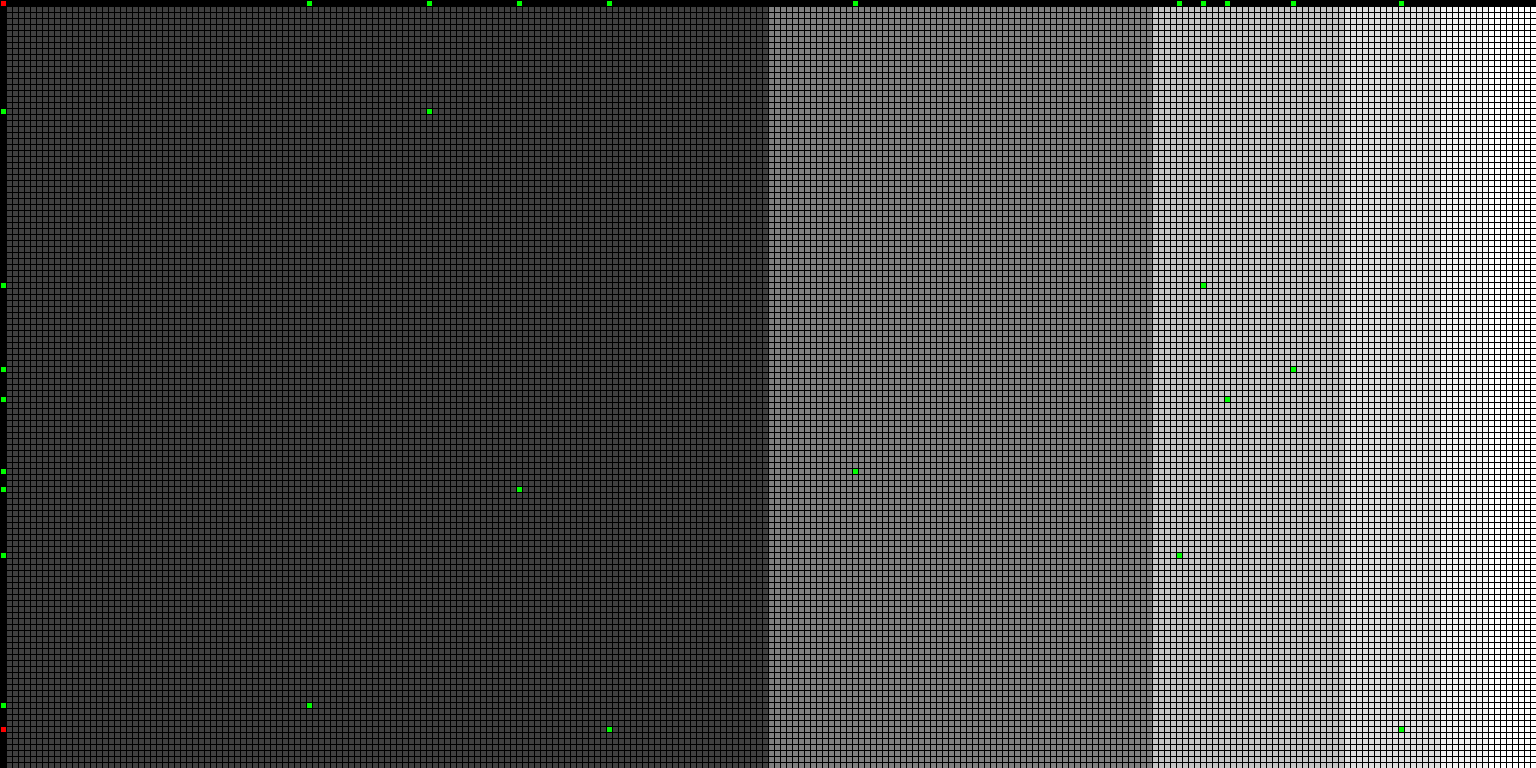
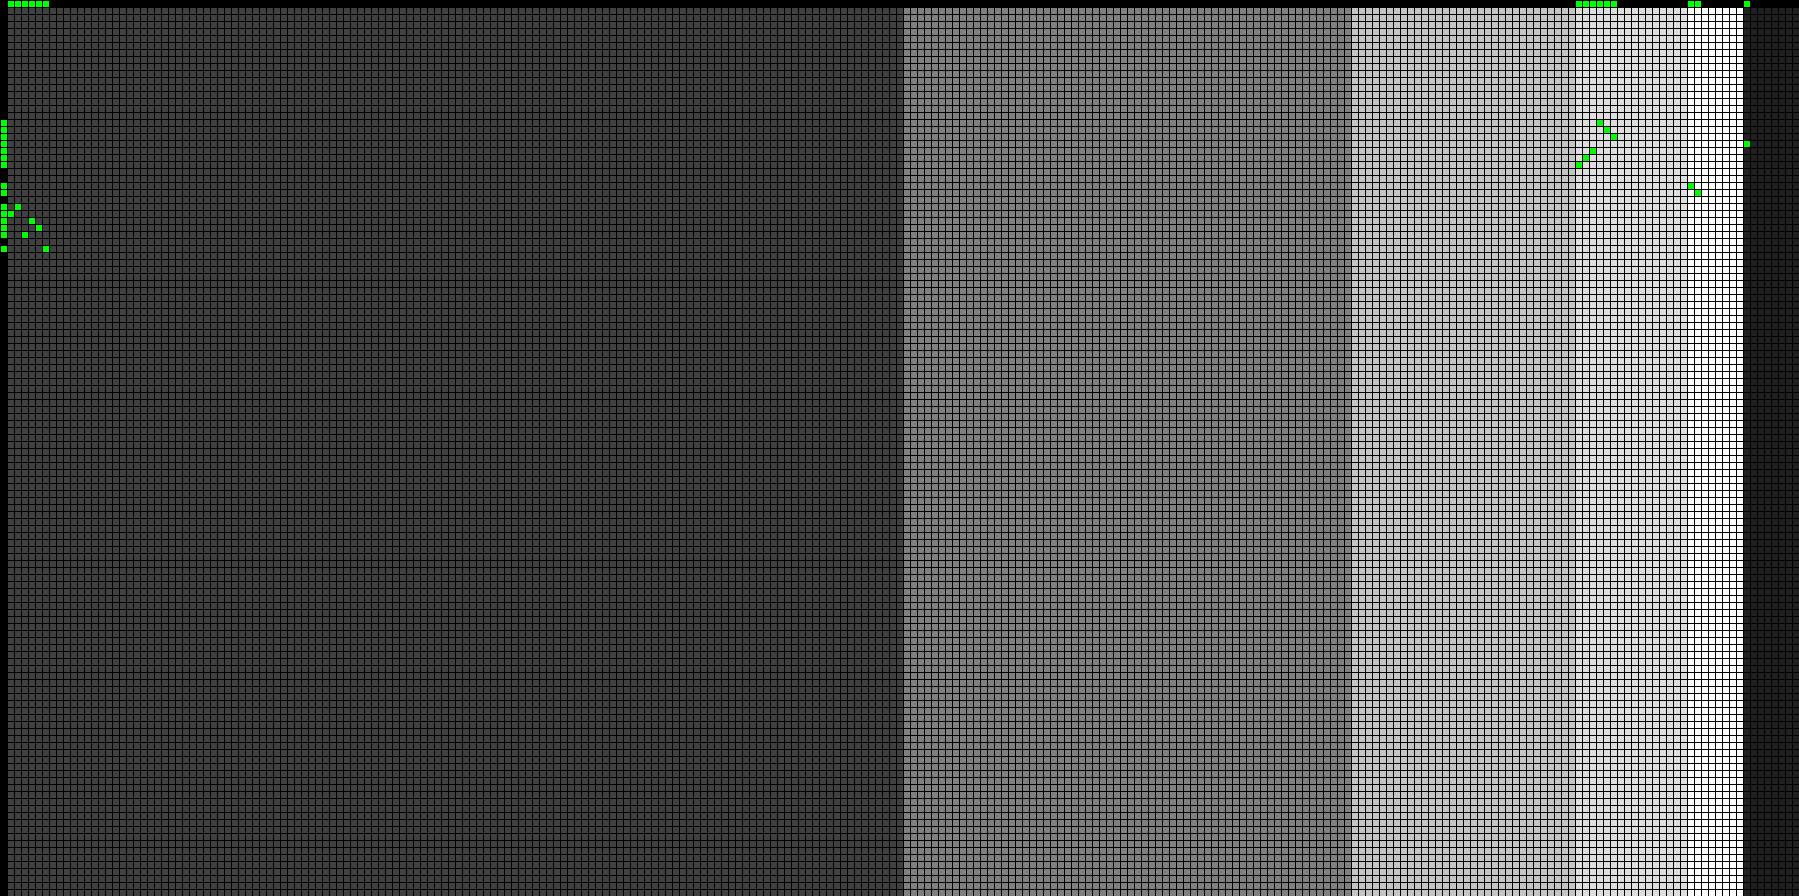
data: setup P and SP.

diff --git a/claLUT.cpp b/claLUT.cpp
@@ -14,7 +14,7 @@ int main()
   int width=257;
   int height=128;
   const int spectrum=6;
-  int zoom=6;int step=zoom;
+  int zoom=7;int step=zoom;
   CImg<unsigned char> image(width,height,1,spectrum);
   //                              R   G   B    P  SP   V
   const unsigned char red[] = { 255,  0,  0,   0,  0,  0 }
@@ -27,7 +27,7 @@ int main()
                   , cP32[]  = { 196,196,196,  32,  0,255 }
                   , cP16[]  = { 222,222,222,  16,  0,255 }
                   , cP8[]   = { 255,255,255,   8,  0,255 }
-                  , cP1[]   = {  32, 32, 32,   1,  0,255 }
+                  , cP1[]   = {  48, 48, 48,   1,  0,255 }
                   ;
   //partition
   {
@@ -83,7 +83,7 @@ int main()
     //else add point
     CImg<unsigned char>  color(1,1,1,spectrum);color.draw_point(0,0,green);//RGB
     color(P)=(i<129)?128:(i<129+64)?64:(i<129+64+32)?32:(i<129+64+32+16)?16:(i<129+64+32+16+8)?8:1;//Partition
-    color(SP)=i;//SubPartition TODO
+    color(SP)=(i<129)?i:(i<129+64)?i-128:(i<129+64+32)?i-128-64:(i<129+64+32+16)?i-128-64-32:(i<129+64+32+16+8)?i-128-64-32-16:i-128-64-32-16-8;//SubPartition
     color(V)=j;//Value
     image.draw_point(i,j,color.data());
     if(image(i,0,0,R)==black[R]&&image(i,0,0,G)==black[G]&&image(i,0,0,B)==black[B])/*RGB*/ image.draw_point(i,0,color.data());
@@ -103,7 +103,7 @@ int main()
   //draw vertical lines
   for(int x=0; x<(int)(image.width()); x+=stepx)
     image.draw_line(x,0,x,image.height()-1,black);
-  image.display("zoom 6x");//zoom
+//  image.display("LUT");
   image.save("claLUT.png");
   return 0;
 }
